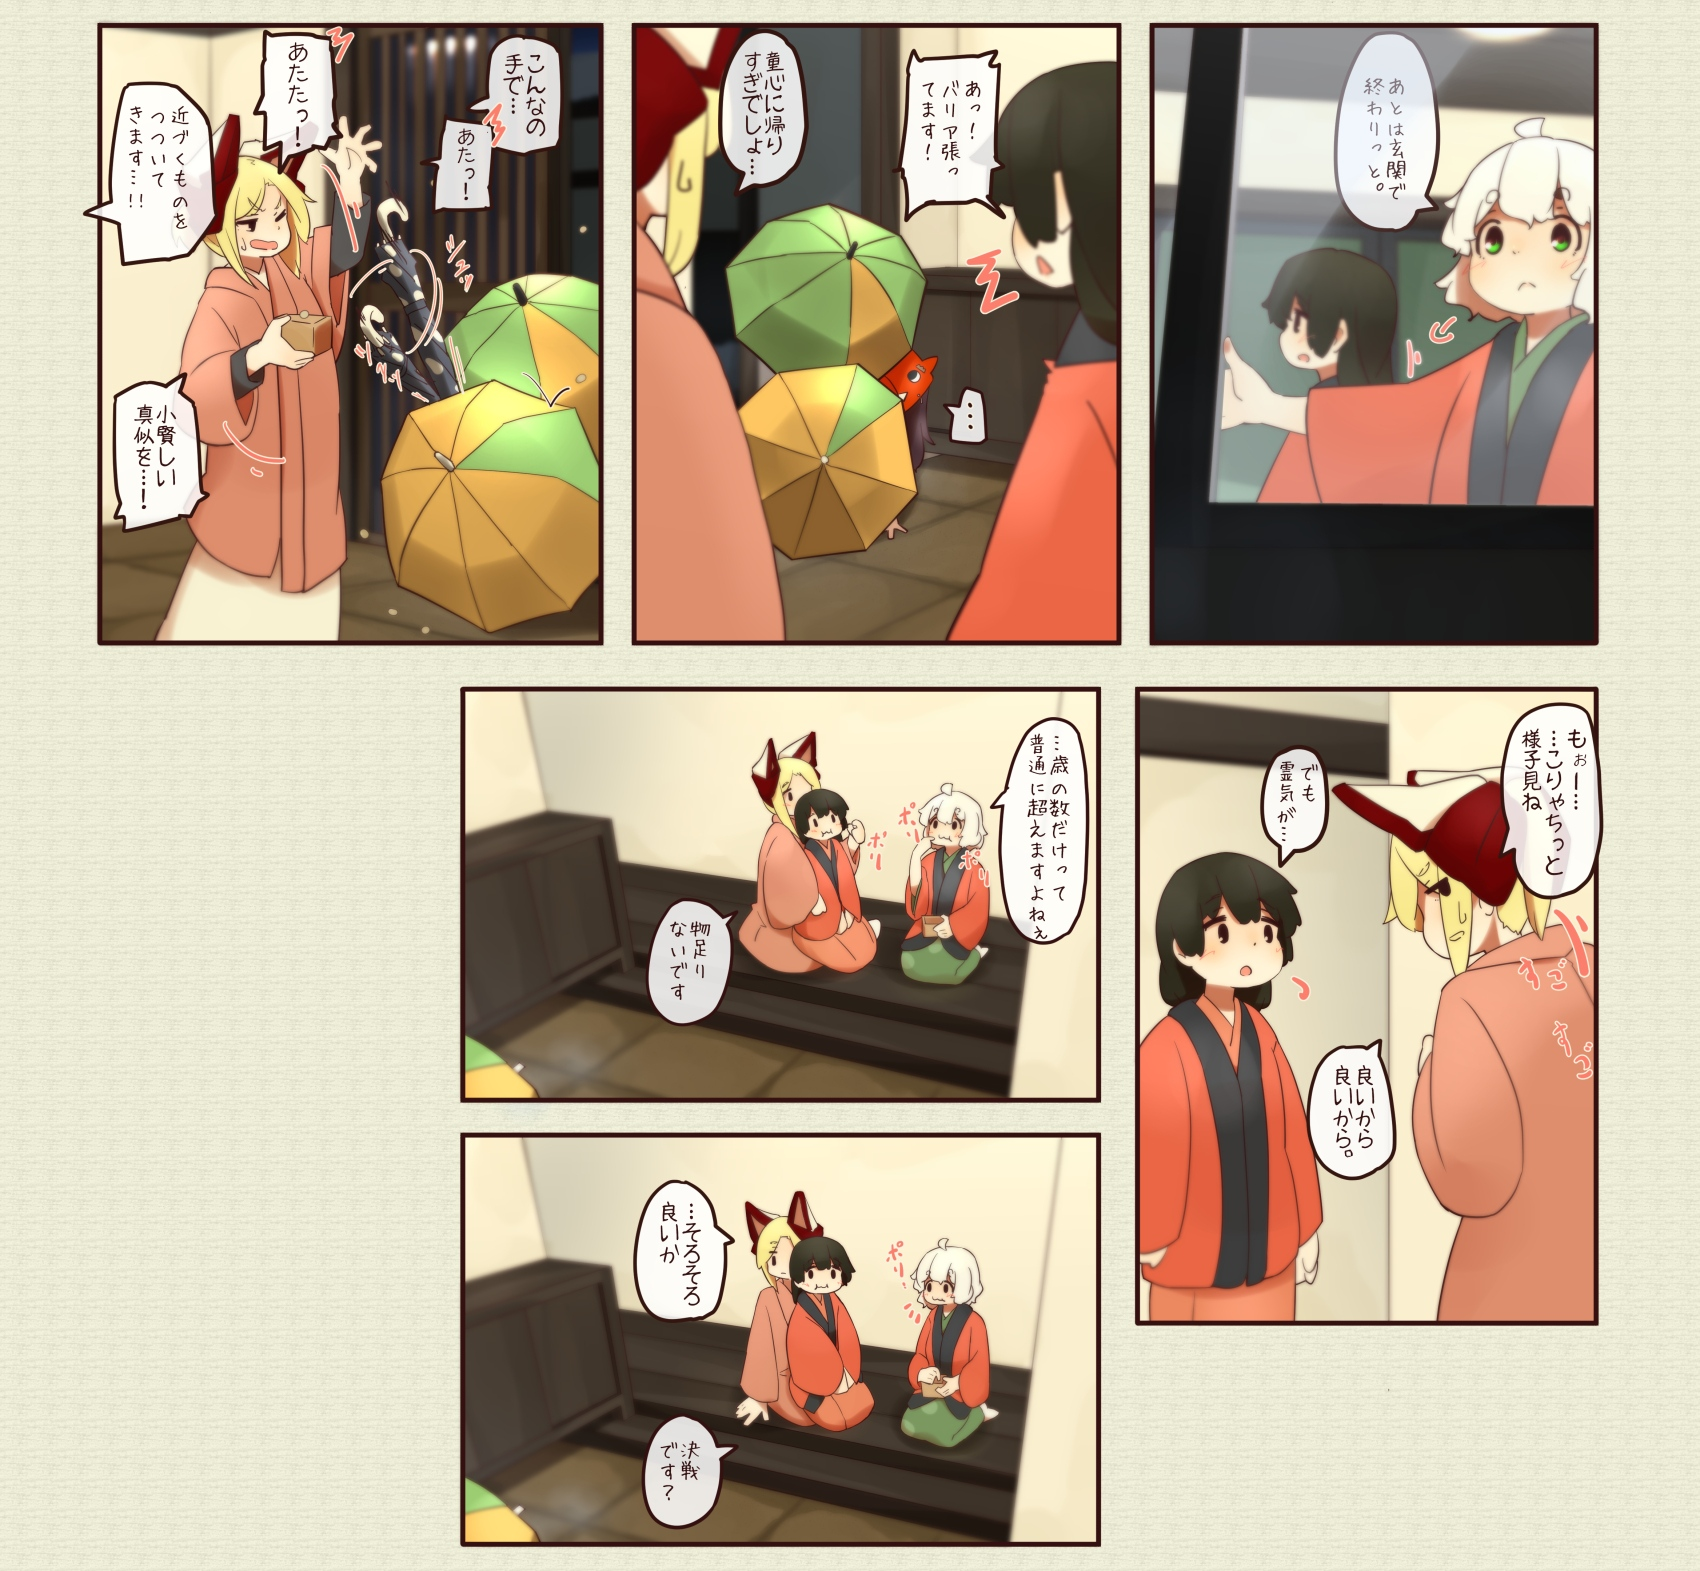
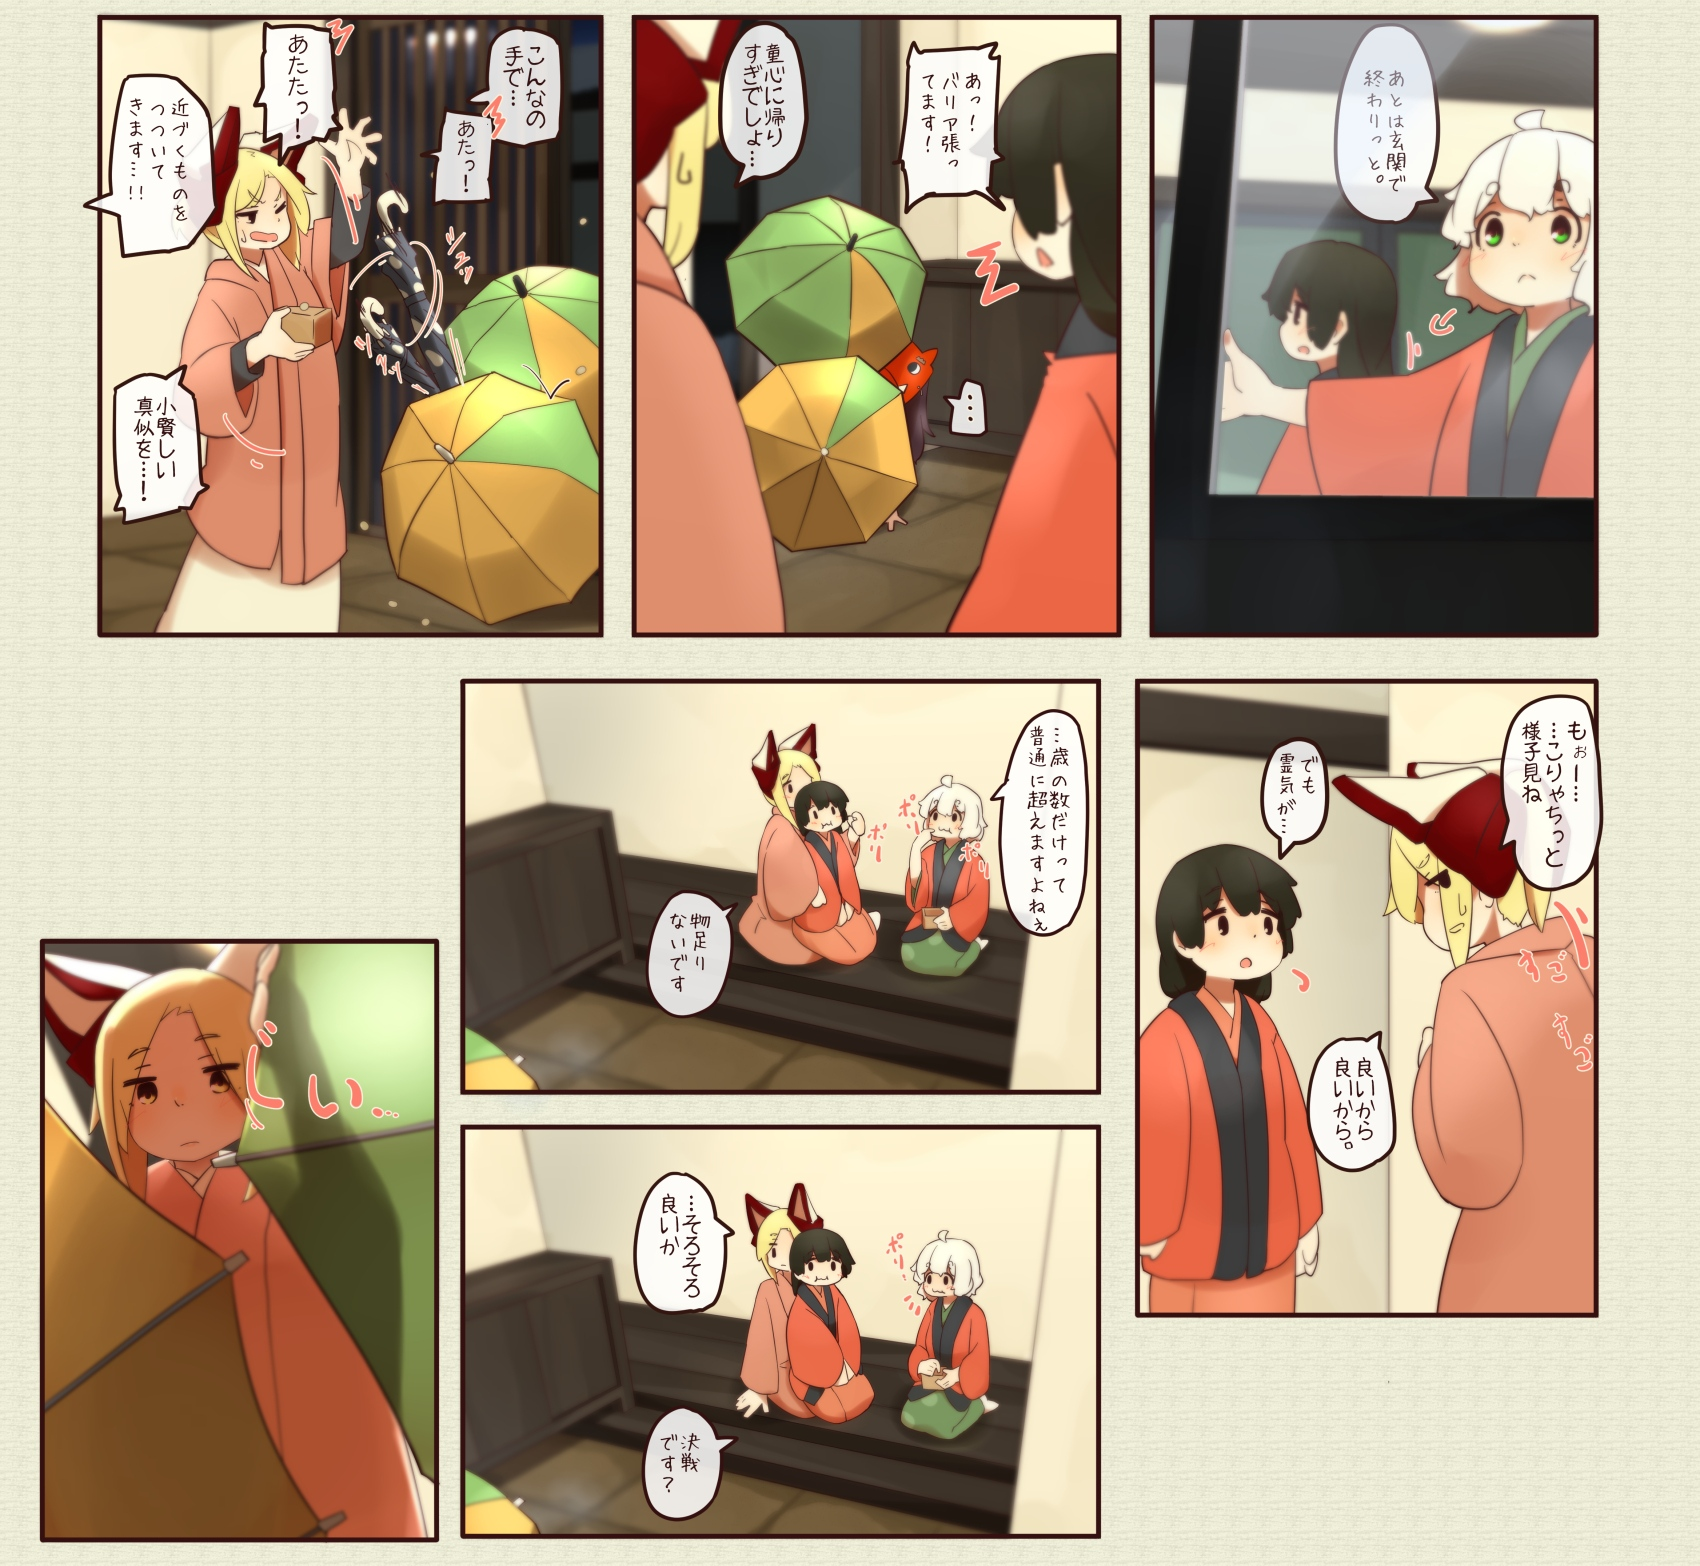
update: auto updated 4komaData by yurika

diff --git a/4komaData.js b/4komaData.js
@@ -230,5 +230,5 @@ pageData = [
 ,{"Title": "おようふく", "ImagesUrl": ["https://iranika.github.io/mo-code//4koma/229-1.jpg", "https://iranika.github.io/mo-code//4koma/229-2.jpg", "https://iranika.github.io/mo-code//4koma/229-3.jpg", "https://iranika.github.io/mo-code//4koma/229-4.jpg", "https://iranika.github.io/mo-code//4koma/229-5.jpg", "https://iranika.github.io/mo-code//4koma/sp.jpg"]}
 ,{"Title": "おとしだま", "ImagesUrl": ["https://iranika.github.io/mo-code//4koma/230-1.jpg", "https://iranika.github.io/mo-code//4koma/230-2.jpg", "https://iranika.github.io/mo-code//4koma/230-3.jpg", "https://iranika.github.io/mo-code//4koma/230-4.jpg", "https://iranika.github.io/mo-code//4koma/230-5.jpg", "https://iranika.github.io/mo-code//4koma/sp.jpg"]}
 ,{"Title": "節分", "ImagesUrl": ["https://iranika.github.io/mo-code//4koma/231-1.jpg", "https://iranika.github.io/mo-code//4koma/231-2.jpg", "https://iranika.github.io/mo-code//4koma/sp.jpg"]}
-,{"Title": "おに", "ImagesUrl": ["https://iranika.github.io/mo-code//4koma/232-1.jpg", "https://iranika.github.io/mo-code//4koma/232-2.jpg", "https://iranika.github.io/mo-code//4koma/sp.jpg"]}
+,{"Title": "おに", "ImagesUrl": ["https://iranika.github.io/mo-code//4koma/232-1.jpg", "https://iranika.github.io/mo-code//4koma/232-2.jpg", "https://iranika.github.io/mo-code//4koma/232-3.jpg", "https://iranika.github.io/mo-code//4koma/sp.jpg"]}
 ]
